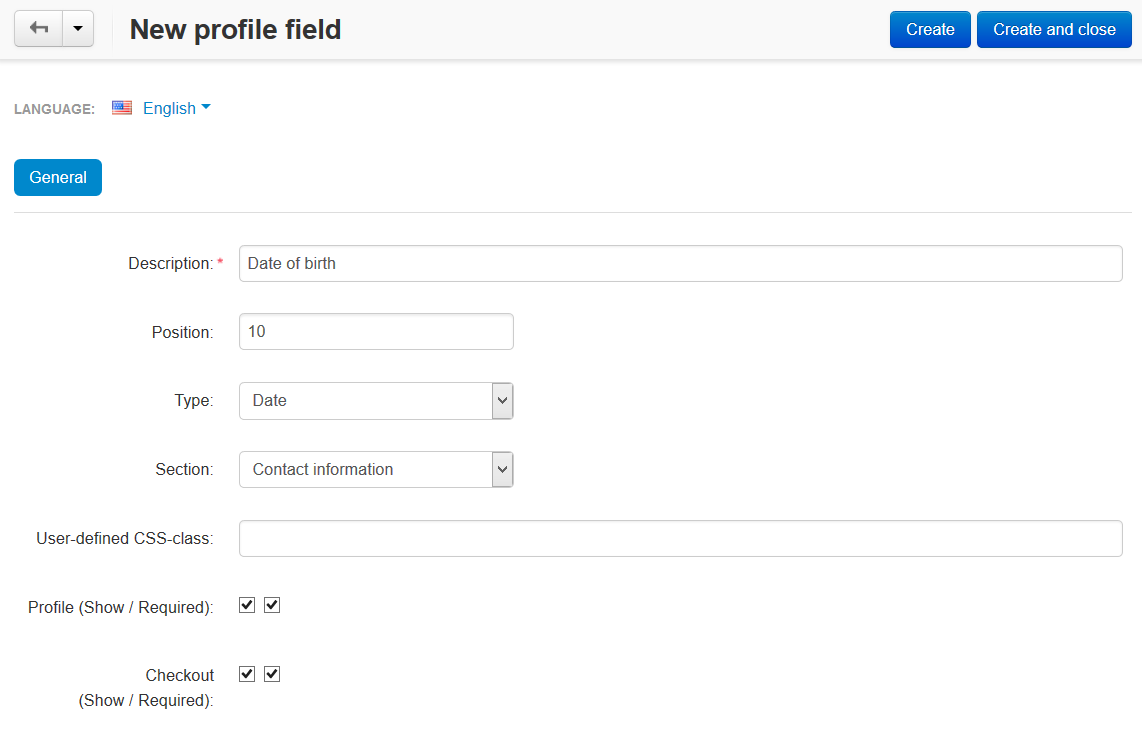
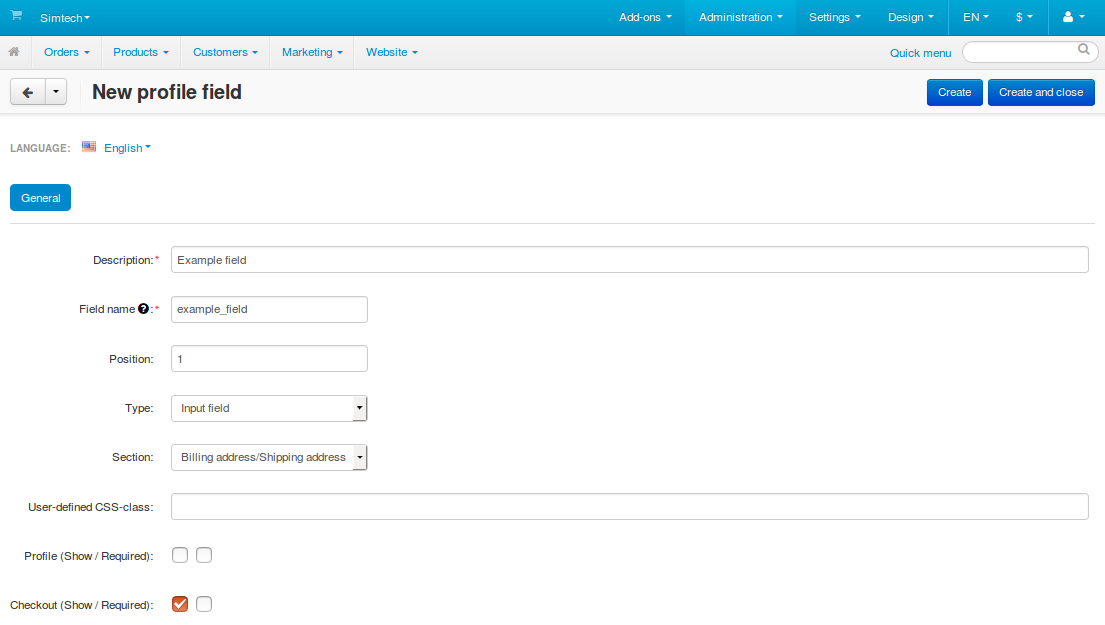
EN: User Guide: Profile fields: Article updated to account for doc editor.

diff --git a/en/user_guide/users/customers/change_profile_fields.rst b/en/user_guide/users/customers/change_profile_fields.rst
@@ -28,6 +28,8 @@ Add/Edit Profile Fields
 
    * **Description**—the name of the field as it appears to customers and administrators.
 
+   * **Field name**—the character sequence unique for each profile field. It serves to identify the field and can be :ref:`used as a variable in the document editor. <profile-field-in-document>`
+
    * **Position**—the position of this profile field on the list relative to other fields.
 
    * **Type**—the type of the profile field. It determines what kind of values can be entered or selected in the field. If you choose *Radio group* or *Multiple checkboxes*, you'll have to specify the possible variants on the **Variants** tab.
@@ -71,6 +73,30 @@ Once you configure the visibility of the profile fields, click **Save** in the t
 .. image:: img/shown_and_required_fields.png
     :align: center
     :alt: Tick the corresponding checkboxes to determine where the field should appear.
+
+.. _profile-field-in-document:
+
+=====================================
+Use Profile Fields in Document Editor
+=====================================
+
+Starting with version 4.4.1, CS-Cart and Multi-Vendor come with :doc:`the document editor <../../look_and_feel/documents/index>` that allows to customize invoices, packing slips, and other documents. 
+
+**If a profile field appears at checkout**, its identifier from the **Field name** property will also appear in the document editor among other variables. The field can be found in the ``user`` group of variables. Simply click on the field name, and it will be added to the place where you last left the cursor in the document template. 
+
+.. important::
+
+    If the field belongs to the *Billing/Shipping address* section, it will be represented by 2 variables with different prefixes: ``b_`` (billing address) and ``s_`` (shipping address).
+
+.. image:: img/custom_field_in_document_editor.png
+    :align: center
+    :alt: Custom profile fields on the list of variables.
+
+You can also refer to that profile field by its name manually. For example, if the field name is ``s_example_field``, put ``{{ u.s_example_field }}`` to where you want the content of the field to appear in the document.
+
+.. hint::
+
+    In this case ``u`` stands for ``users``.
 
 =====================
 Delete Profile Fields
